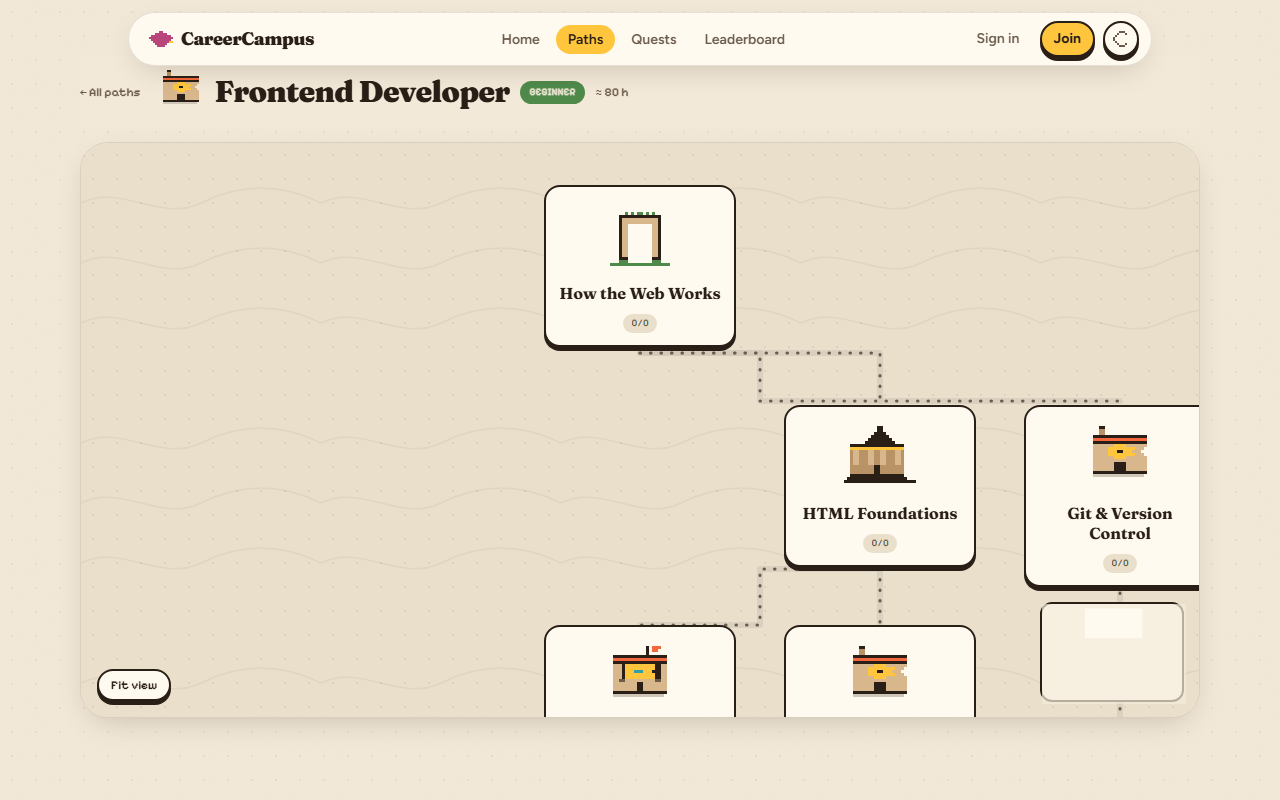
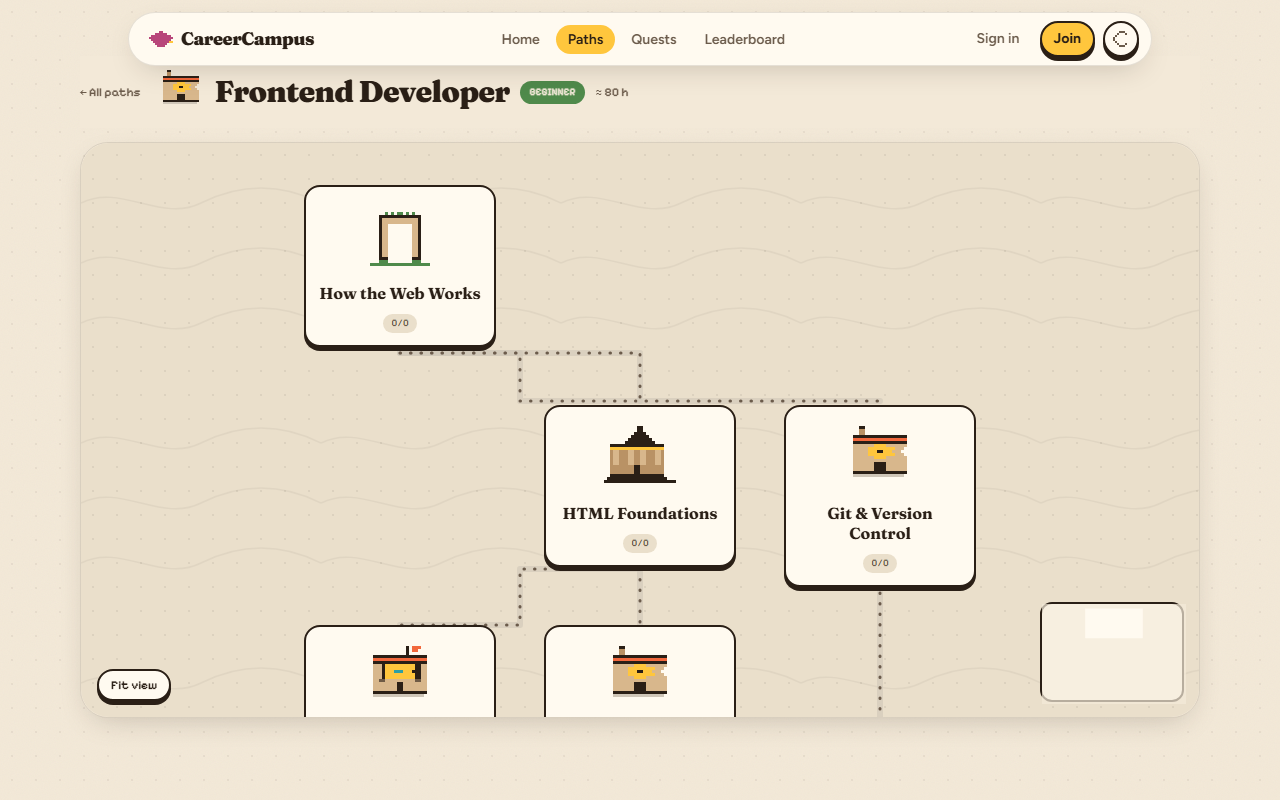
fix(trail-map): centre the trail horizontally + free two-axis scroll
User feedback round 3: the path sat to one side and could only be
scrolled up/down.

- Initial view now centres on the trail's horizontal bounding-box middle
  (vertical position unchanged: trail start for guests, current node for
  authed). Verified at 1280: equal 223px left/right margins on both trails.
- panOnScrollMode Vertical -> PanOnScrollMode.Free so wheel/trackpad pan
  left/right as well as up/down (verified: deltaX pans at constant zoom
  1.0; shift+wheel works with a mouse, two-finger swipe with a trackpad).
- Refreshed phase-2 trail-map QA screenshots; DECISIONS.md + PROGRESS.md.

Verified: Vitest 13 files / 60 tests, ESLint + Prettier clean, tsc clean

diff --git a/frontend/src/components/trail/TrailMap.tsx b/frontend/src/components/trail/TrailMap.tsx
@@ -62,11 +62,13 @@ export function TrailMap({ detail, variant, authed, onOpen }: TrailMapProps): JS
         }));
     }, [detail, authed]);
 
-    // Open at full-size zoom centred on the trail start, never squashed to
-    // fit the whole graph — a 12-node trail is taller than the viewport, so
-    // the map scrolls: wheel/trackpad pan the canvas (page-like), drag pans,
-    // pinch/ctrl+wheel zooms, "Fit view" shows the full trail, MiniMap orients.
-    // Guests start at the first stop; authed users at their current node.
+    // Open at full-size zoom, horizontally centred on the whole trail (so
+    // the path sits in the middle of the canvas, not hugging one side) and
+    // vertically on the trail start — the trail is taller than the viewport,
+    // so it travels by scrolling: wheel/trackpad pan the canvas both ways
+    // (page-like), drag pans, pinch/ctrl+wheel zooms, "Fit view" shows the
+    // full trail, MiniMap orients. Guests start at the first stop; authed
+    // users at their current node.
     useEffect(() => {
         if (centered) return;
         const targetIds = new Set(detail.edges.map((e) => e.node_id));
@@ -81,7 +83,9 @@ export function TrailMap({ detail, variant, authed, onOpen }: TrailMapProps): JS
             : undefined;
         const focus = current ?? head;
         if (focus) {
-            setCenter(focus.pos_x + NODE_CENTER_X, focus.pos_y + NODE_CENTER_Y + FOCUS_OFFSET_Y, {
+            const xs = detail.nodes.map((n) => n.pos_x);
+            const midX = (Math.min(...xs) + Math.max(...xs)) / 2 + NODE_CENTER_X;
+            setCenter(midX, focus.pos_y + NODE_CENTER_Y + FOCUS_OFFSET_Y, {
                 zoom: START_ZOOM,
                 duration: 0,
             });
@@ -101,7 +105,7 @@ export function TrailMap({ detail, variant, authed, onOpen }: TrailMapProps): JS
                 maxZoom={1.75}
                 zoomOnScroll={false}
                 panOnScroll
-                panOnScrollMode={PanOnScrollMode.Vertical}
+                panOnScrollMode={PanOnScrollMode.Free}
                 nodesFocusable
                 nodesDraggable={false}
                 nodesConnectable={false}

diff --git a/docs/DECISIONS.md b/docs/DECISIONS.md
@@ -137,15 +137,18 @@ Running log of decisions made where `spec.md` was ambiguous or silent (spec §15
   (pixel skeleton shimmer, spec §9A.4/§9A.9) is added to the
   `prefers-reduced-motion: reduce` rule alongside `.trail-ants`, so no
   decorative animation runs for reduced-motion users.
-- **Trail Map viewport: full-size, scroll-first (user feedback, 2026-10-19).**
-  The trails are taller than the viewport (12-node trail ≈ 1.7k flow px), and
-  auto fit-to-view squashed them to ~0.4 at laptop sizes — titles unreadable;
-  wheel-zoom then shrank the trail further, which read as a bug. Decision:
-  open at **zoom 1** centred on the trail start (guests) or the learner's
-  current node (authed); `zoomOnScroll={false}` + `panOnScroll` (vertical)
-  make wheel/trackpad pan the canvas like scrolling a page; pinch/ctrl+wheel
-  still zooms (`minZoom` 0.3 so the trail can't be shrunk unreadable), drag
-  pans, "Fit view" + MiniMap give the overview. Seed rows re-spaced to a
-  220px pitch (node tiles are up to ~183px tall) so same-column nodes never
-  overlap — verified with a Playwright pairwise node-rect intersection check
-  (0 overlaps on both trails).
+- **Trail Map viewport: full-size, scroll-first, centred (user feedback,
+  2026-10-19).** The trails are taller than the viewport (12-node trail ≈
+  1.7k flow px), and auto fit-to-view squashed them to ~0.4 at laptop sizes —
+  titles unreadable; wheel-zoom then shrank the trail further, which read as
+  a bug; and centering on the x=0 trailhead left the path hugging the left
+  side. Decision: open at **zoom 1**, horizontally centred on the trail's
+  bounding box and vertically on the trail start (guests) or the learner's
+  current node (authed); `zoomOnScroll={false}` + `panOnScroll`
+  (`PanOnScrollMode.Free`) so wheel/trackpad pan the canvas like scrolling a
+  page on both axes; pinch/ctrl+wheel still zooms (`minZoom` 0.3 so the trail
+  can't be shrunk unreadable), drag pans, "Fit view" + MiniMap give the
+  overview. Seed rows re-spaced to a 220px pitch (node tiles are up to ~183px
+  tall) so same-column nodes never overlap — verified with a Playwright
+  pairwise node-rect intersection check (0 overlaps on both trails) and a
+  left/right margin check (equal gaps).

diff --git a/docs/PROGRESS.md b/docs/PROGRESS.md
@@ -145,12 +145,14 @@ All four are documented in `docs/DECISIONS.md`.
   Verified with a Playwright pairwise node-rect intersection check: 0
   overlaps on both trails (2026-10-19).
 - Trail Map interaction: the map now opens at **zoom 1** (full-size nodes,
-  never squashed to fit) and the trail travels by **scrolling** —
-  `zoomOnScroll={false}` + `panOnScroll` + `panOnScrollMode={Vertical}` so
-  wheel/trackpad pan like a page (verified: wheel pans at constant zoom
-  1.0); pinch/ctrl+wheel still zooms, drag pans, `minZoom` raised to 0.3 so
-  the trail can't be zoomed unreadable, "Fit view" shows the full trail
-  (2026-10-19).
+  never squashed to fit), horizontally centred on the trail's bounding box
+  (verified: equal 223px left/right margins at 1280) and vertically on the
+  trail start, and the trail travels by **scrolling** —
+  `zoomOnScroll={false}` + `panOnScroll` + `panOnScrollMode={Free}` so
+  wheel/trackpad pan like a page on both axes (verified: wheel pans at
+  constant zoom 1.0, vertical and horizontal); pinch/ctrl+wheel still zooms,
+  drag pans, `minZoom` raised to 0.3 so the trail can't be zoomed unreadable,
+  "Fit view" shows the full trail (2026-10-19).
 
 ### Handoff
 - Read-only content flow is done: landing → catalog → Trail Map, guest and
